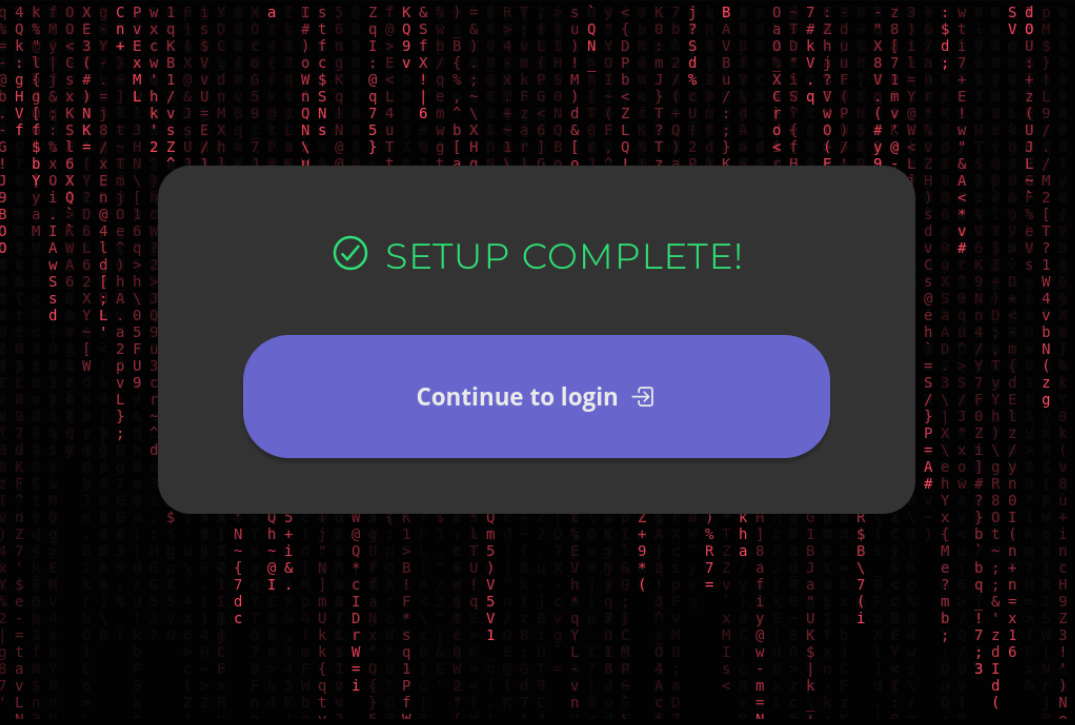
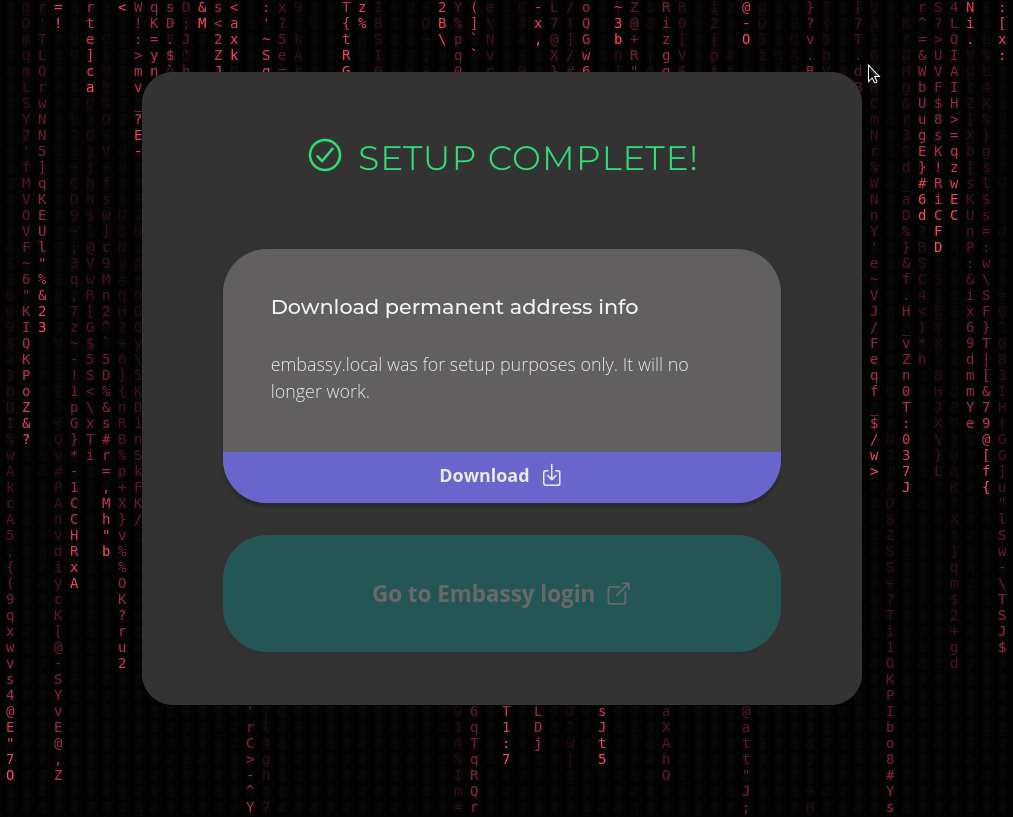
Final matrix screencap and working touchups

diff --git a/site/source/user-manual/initial-setup.rst b/site/source/user-manual/initial-setup.rst
@@ -97,11 +97,17 @@ Power the device on and select which mode you would like to continue in on the t
       :width: 60%
       :alt: SSD Initialization
 
-#. Your Embassy is now a private website on the private web! Continue to the section on :ref:`connecting` to learn more about using your Embassy over Tor and LAN.
+#. Your Embassy is now a private website on the private web!
 
-    .. tip:: Click "Download This Page" to save your Embassy address and certificate info on your computer.
+    .. tip:: If you used headless mode, click "Download This Page" to save your Embassy address and certificate info to your computer.
 
     .. figure:: /_static/images/setup/screen7-startfresh_complete.jpg
+      :width: 60%
+      :alt: Setup Complete
+
+#. Finally, you will be able to login to your newly setup Embassy.  Continue to the section on :ref:`connecting` to learn more about using your Embassy over Tor and LAN.
+
+    .. figure:: /_static/images/setup/screen9-startfresh_complete-savedfile-go_to_embassy_login.jpg
       :width: 60%
       :alt: Setup Complete
 
